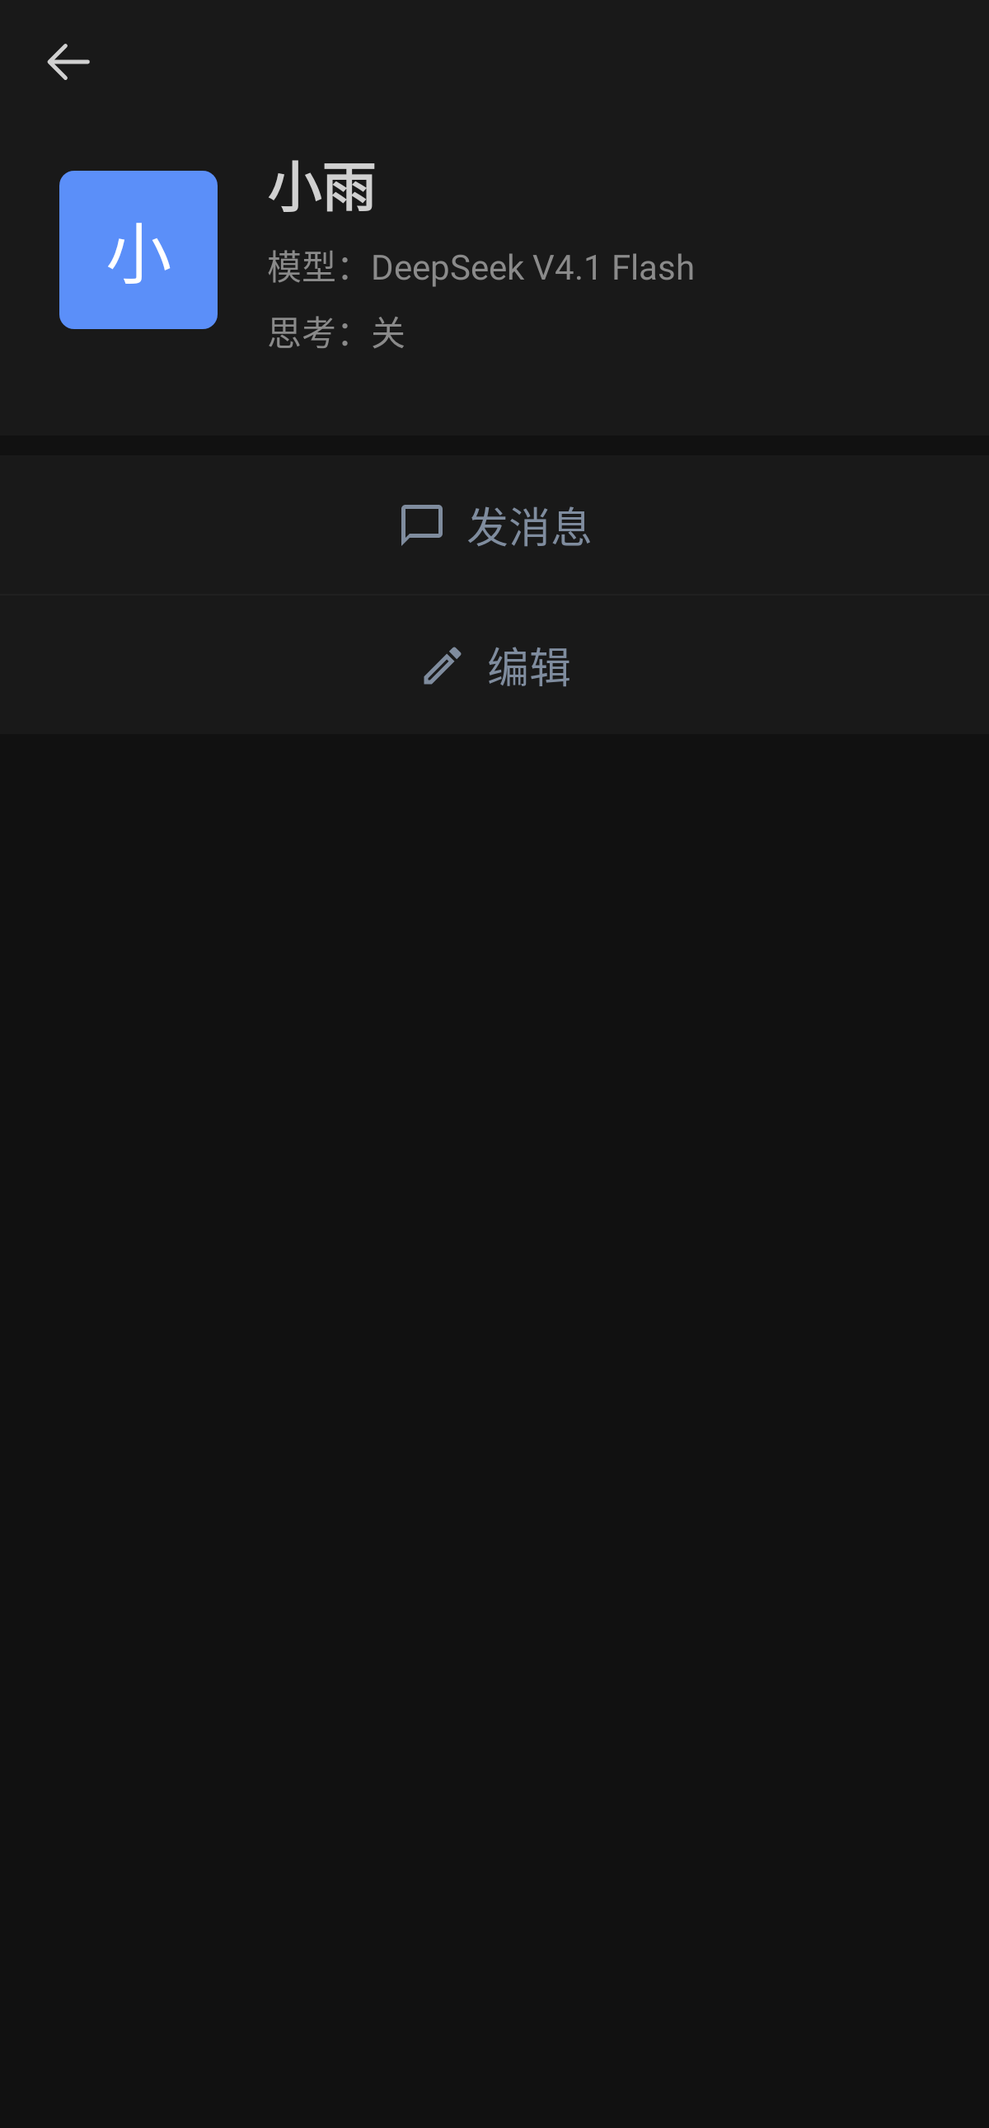
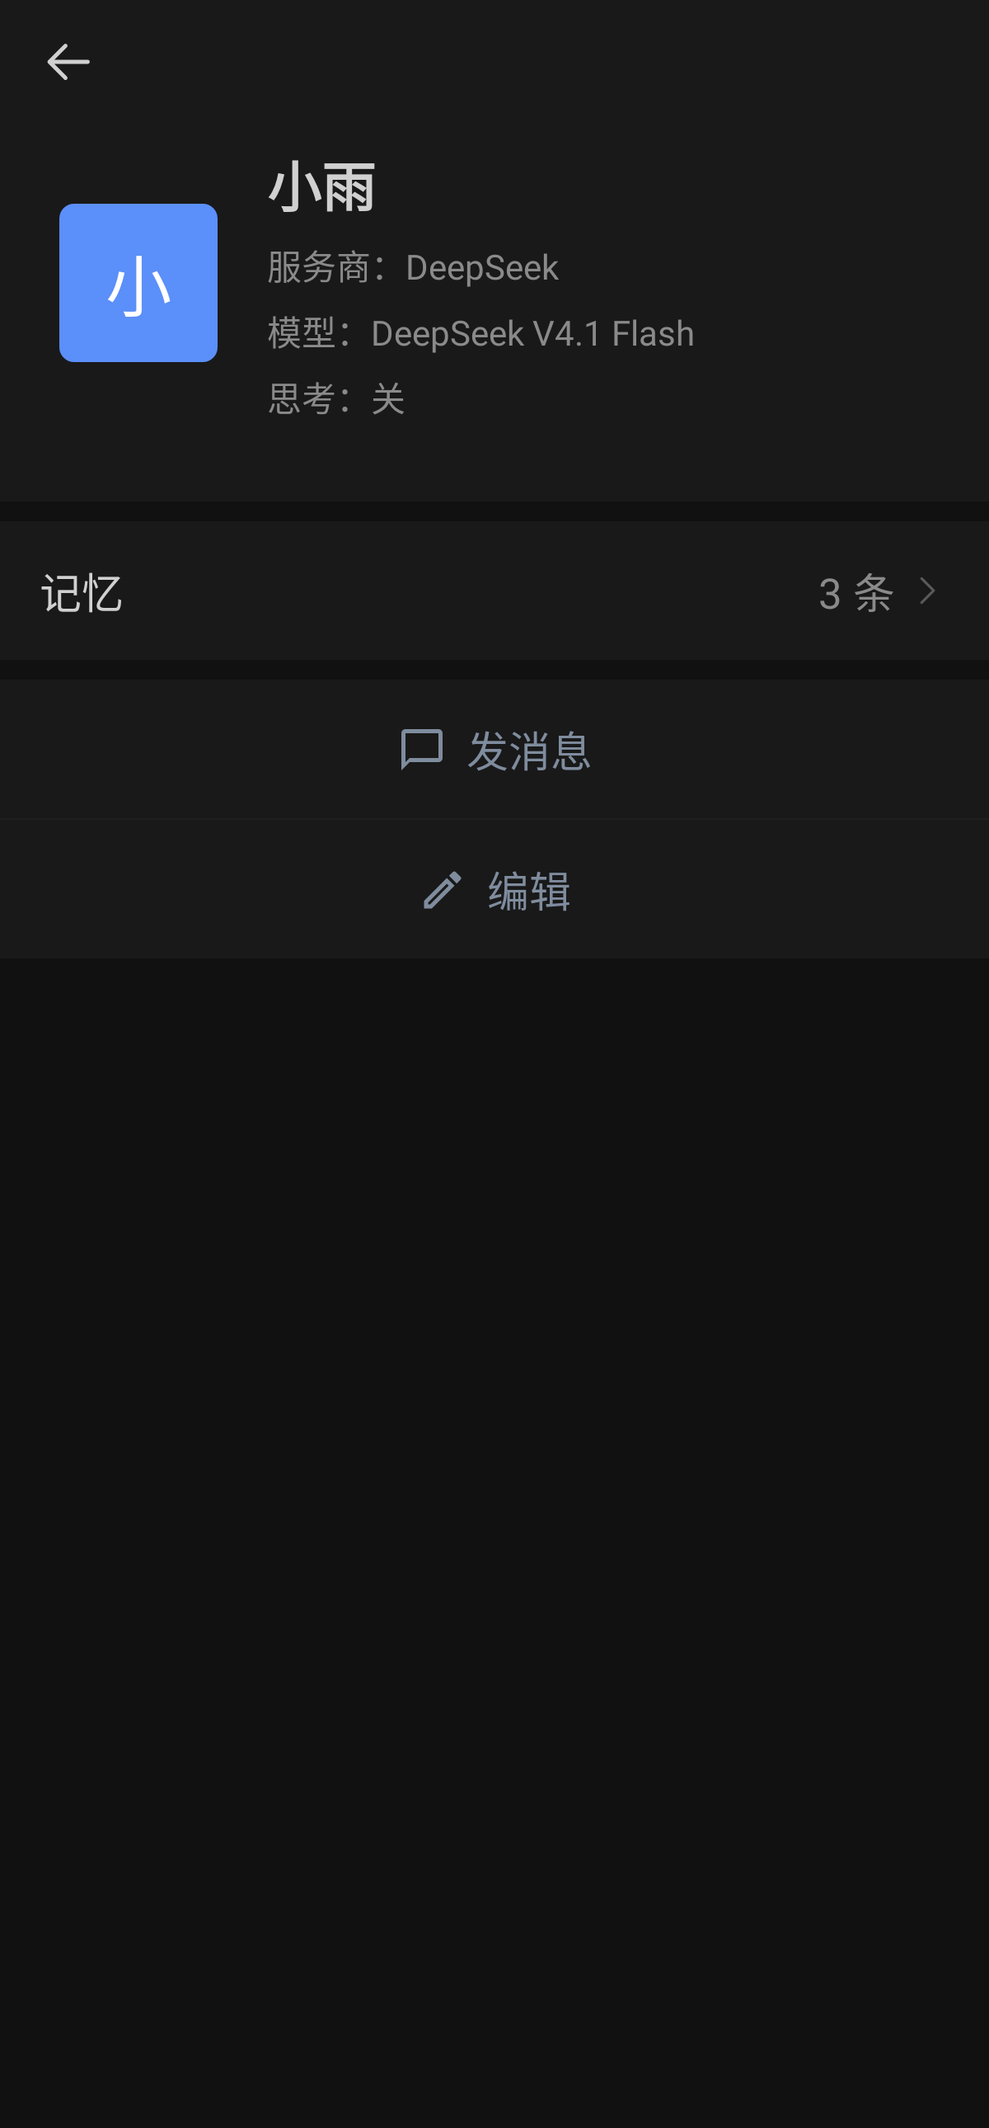
chore: 版本号改为 0.3.0，补充 0.3.0 更新说明、README、设计方案和新页面截图

diff --git a/智信 AIChat 设计方案.md b/智信 AIChat 设计方案.md
@@ -202,8 +202,9 @@ isomeria.aichat
 
 ### 联系人详情
 
-- 仿微信好友资料页：大头像、名称、当前模型
-- 按钮：「发消息」「编辑」；编辑页底部有「删除联系人」，需要二次确认，同时删除聊天记录
+- 仿微信好友资料页：大头像、名称、当前服务商和模型
+- 「记忆」（0.3.0）：查看、编辑、删除这个联系人的记忆，手动总结更早的聊天，清空全部记忆
+- 按钮：「发消息」「编辑」；编辑页底部有「删除联系人」，需要二次确认，同时删除聊天记录和记忆
 
 ### 联系人编辑
 
@@ -215,9 +216,12 @@ isomeria.aichat
 | 思考强度 | 关 / 高 / 最高 | 关 |
 | 温度 | 0.0–2.0 滑块，步长 0.1；开启思考时置灰，提示「思考模式下不生效」 | 1.3（DeepSeek 对通用对话的建议值，开发前核对） |
 | 系统提示词 | 多行文本，定义人设和说话方式 | 空 |
-| 上下文条数 | 每次请求带上最近几条消息 | 20 |
+| 服务商（0.3.0） | 先选服务商，再选模型 | 第一个配置了 Key 的服务商 |
+| 上下文上限（0.3.0） | 系统提示词、记忆和聊天记录合计的 token 上限，代替原来的上下文条数 | 4000 |
 
-另有一个开关「分条显示」，默认开，含义见聊天页。
+另有两个开关：「分条显示」，默认开，含义见聊天页；「自动记忆」（0.3.0），默认开，含义见「5. 模型接入」的长期记忆。
+
+模型不支持思考时，思考强度置灰并固定为关。
 
 新建联系人时，系统提示词预填下面的伴侣模板，用户在花括号处补充人设即可；{名称} 自动替换为联系人名称。
 
@@ -237,14 +241,14 @@ isomeria.aichat
 
 | 分组 | 内容 |
 | --- | --- |
-| 模型服务 | 大语言模型：服务商、API Key、Base URL、默认模型、「测试连接」；语音合成、语音识别：显示「即将支持」 |
+| 模型服务 | 大语言模型：服务商列表，每个服务商有名称、API Key、Base URL、默认模型、模型列表、「测试连接」；用量统计（0.3.0）；语音合成、语音识别：显示「即将支持」 |
 | 通用 | 深色模式（跟随系统 / 浅色 / 深色）、字体大小、新消息通知（开关、是否显示内容预览） |
 | 数据（0.2.0） | 导出数据、恢复数据、清空所有聊天记录 |
 | 关于 | 版本号、检查更新（0.2.0）、开源许可、GitHub 仓库 |
 
 ## 5. 模型接入
 
-所有模型都通过 LlmProvider 接口调用，0.1.0 只实现 DeepSeek；DeepSeek 兼容 OpenAI 的 Chat Completions 格式，Base URL 为 https://api.deepseek.com。下表的字段名和取值来自先前查到的资料，开发前逐项对照 DeepSeek 官方文档核对。
+所有模型都通过 LlmProvider 接口调用，有两个实现：DeepSeek（Base URL 为 https://api.deepseek.com）和通用的 OpenAI 兼容格式（0.3.0）。两者只有请求里的思考字段不同。下表的字段名和取值来自先前查到的资料，开发前逐项对照 DeepSeek 官方文档核对。
 
 | 智信里的设置 | 请求里的字段 | 说明 |
 | --- | --- | --- |
@@ -255,11 +259,15 @@ isomeria.aichat
 | 系统提示词 | messages 第一条，role 为 system | 为空时不发送 |
 | 流式输出 | stream: true | 后台仍用流式接收，避免思考时间长导致请求超时；界面不逐字显示 |
 
+**其他服务商的思考字段（0.3.0）**
+
+严格校验参数的服务商遇到多余字段会报 400，所以通用格式只发通用字段：思考关时不发思考字段、发温度；高和最高都发 reasoning\_effort 为 high（max 不是通用取值），不发温度。回复里的思考内容同时兼容 reasoning\_content 和 reasoning。手动添加 api.deepseek.com 时自动按 DeepSeek 格式。
+
 **图片输入**
 
 - 按 OpenAI 兼容格式放进消息内容：文字和图片作为同一条用户消息的不同部分，图片用 base64
 - 发送前压缩：长边不超过 2048 像素、JPEG 质量 85%，去掉 EXIF 中的定位信息
-- 每个模型记录「是否支持图片」：优先从接口读取，读不到时由用户在设置里标记
+- 每个模型记录「是否支持图片」「是否支持思考」：优先从接口读取（input\_modalities、effort，以及 OpenRouter 的 architecture.input\_modalities、supported\_parameters），读不到时为未知；用户在设置里的标记优先于接口
 - 上下文：只有最近 3 张图片带原图，更早的图片在请求里替换为文字「\[图片\]」，控制费用和请求大小
 - V4.1 Flash 的图片格式、大小上限和计费方式，开发前对照官方文档核对
 
@@ -276,27 +284,41 @@ isomeria.aichat
 
 **上下文**
 
-- 每次请求 = 系统提示词 + 最近 N 条消息（N 为联系人的「上下文条数」，默认 20）
+- 每次请求 = 系统提示词 + 记忆 + 预算内的聊天记录；预算是联系人的「上下文上限」，默认 4000 token，不含回复
+- 从最新的消息往前取，放不下就停；同一次回复拆出的多条要么都带，要么都不带；等待回复的消息一定带上；开头是助手消息时去掉，有些服务商要求第一条是用户消息
 - 历史回复里的思考内容不回传给模型
-- 系统提示词末尾自动附上当前日期、星期、时间和用户在「我」页设置的昵称，让回复符合时间和称呼（比如深夜会提醒早点睡）；0.3.0 改为按 token 预算截断，超出时丢弃最早的消息
+- 系统提示词末尾自动附上当前日期、星期、时间和用户在「我」页设置的昵称，让回复符合时间和称呼（比如深夜会提醒早点睡）
+- token 用估算，不引入分词库：DeepSeek 按官方比例（汉字 0.6、英文字符 0.3），其他服务商汉字按 1；每条消息加 4，带原图的图片每张按 1000 算
+
+**长期记忆（0.3.0）**
+
+- 触发：每次回复成功后在后台检查。未总结的消息超过可用预算（预算减去系统提示词和记忆）的 80% 时，把最早的一半总结成一条，单次最多 6000 token。这样消息被丢弃前已经进了记忆，默认预算下大约每 80 条总结一次
+- 模型：联系人当前的服务商和它的默认模型，关闭思考；没有默认模型时用联系人自己的模型。这样 Key 一定可用，聊天内容也不会发给联系人没在用的服务商
+- 形式：每次总结一条，不超过 200 字，标明日期范围，可以逐条编辑和删除
+- 总量：最多占预算的 1/4。超出时把最早的、没被改过的一半合并成一条；还是放不下时，这次请求先不带最早的，但不删除
+- 老聊天：升级后不自动回溯，起点是第一次检查时的上下文窗口开头。记忆页的「总结更早的聊天」手动往前总结一批
+- 失败：不打扰用户，下次回复后再试；用量计入统计
+- 删除：删除联系人时一起删除；清空或删除聊天时保留，确认框写明
+- 开关：联系人编辑页「自动记忆」，默认开；重新打开时不回溯关闭期间的聊天
 
 **错误处理**
 
 | 情况 | 提示 | 处理 |
 | --- | --- | --- |
-| 401 认证失败 | API Key 无效 | 提供「去设置」按钮 |
-| 402 余额不足 | DeepSeek 账户余额不足 | 不自动重试 |
+| 401、403 认证失败 | API Key 无效 | 提供「去设置」按钮，打开这个联系人用的服务商 |
+| 402 余额不足 | 服务商账户余额不足 | 不自动重试 |
+| 404 不存在 | 接口或模型不存在 | 消息标记失败，可检查 Base URL 和模型 |
 | 429 请求过快 | 请稍后再试 | 消息标记失败，可手动重试 |
 | 5xx、超时、断网 | 网络或服务异常 | 消息标记失败，可手动重试 |
 
 **安全**
 
-- API Key 只发送到用户配置的 Base URL
+- API Key 只发送到用户配置的 Base URL；Base URL 只支持 https，请求不跟随重定向
 - 日志里不出现 API Key 和消息正文
 
 **扩展接口**
 
-- LlmProvider：拉取模型列表、发起流式对话；以后加入其他兼容 OpenAI 格式的服务商，只需新增一个实现
+- LlmProvider：拉取模型列表、发起流式对话；兼容 OpenAI 格式的服务商不用写新实现，直接在设置里添加
 - TtsProvider、AsrProvider：形态相同，0.4.0 开始实现，设置页已预留入口
 
 ## 6. 数据设计
@@ -307,25 +329,29 @@ Room 存联系人、会话、消息和服务商配置，MMKV 存设置，API Key
 
 | 表 | 主要字段 | 说明 |
 | --- | --- | --- |
-| contact 联系人 | id、名称、头像路径、服务商 id、模型、思考强度（关/高/最高）、温度、系统提示词、上下文条数、创建与修改时间 | 一个联系人对应一个会话 |
-| conversation 会话 | 联系人 id、是否置顶、未读数、草稿、最后消息时间 | 聊天列表直接查这张表 |
+| contact 联系人 | id、名称、头像路径、服务商 id、模型、思考强度（关/高/最高）、温度、系统提示词、上下文上限、自动记忆、创建与修改时间 | 一个联系人对应一个会话 |
+| conversation 会话 | 联系人 id、是否置顶、未读数、草稿、最后消息时间、记忆进度 | 聊天列表直接查这张表 |
 | message 消息 | id、联系人 id、角色（用户/助手）、类型（文本/图片）、正文、图片路径与宽高、思考内容、状态、错误码、所用模型、token 用量、时间 | 状态：发送中、成功、失败 |
-| provider\_config 服务商 | id、类型（LLM/TTS/ASR）、服务商、Base URL、加密后的 API Key、默认模型、是否启用 | 0.1.0 只有一条 DeepSeek 记录 |
+| provider\_config 服务商 | id、类型（LLM/TTS/ASR）、请求格式、名称、Base URL、加密后的 API Key、默认模型、是否启用 | 可以有多条；还有联系人在用的不能删，至少保留一条 |
+| provider\_model 模型 | 服务商 id、模型 ID、显示名称、接口报告的图片和思考能力、用户标记、是否手动添加 | 刷新列表时保留标记和手动添加的模型 |
+| memory 记忆（0.3.0） | id、联系人 id、内容、覆盖的时间范围、是否改过、创建与修改时间 | 改过的不会被自动合并 |
+| usage\_daily 用量（0.3.0） | 日期、联系人 id、用途（聊天/记忆）、输入和输出 token、请求数 | 和消息表分开；删除联系人时并到「已删除的联系人」 |
 
 **MMKV 存的设置：** 深色模式、字体大小、自己的昵称和头像、自动检查更新开关、上次检查时间、忽略的版本。
 
-**数据库升级：** 导出 Room schema 文件，每次改表写迁移脚本，并用 schema 文件做迁移测试。
+**数据库升级：** 导出 Room schema 文件，每次改表写迁移脚本，并用 schema 文件做迁移测试。v1 → v2（0.3.0）：已有的服务商记录命名为 DeepSeek，id、Key 都不变；上下文条数 × 200 换算成预算，最低 1000；消息里已有的 token 数回填到用量统计。
 
 **导出（0.2.0）**
 
 1. 用系统文件选择器选保存位置，不需要存储权限
 2. 生成 zip：manifest.json（App 版本、数据格式版本、导出时间）、data.json（联系人、会话、消息、设置）、avatars/ 和 images/（头像和聊天图片）
-3. API Key 默认不导出；勾选「包含 API Key」时必须设置密码，Key 用 AES-GCM 加密，密钥由密码经 PBKDF2 派生
+3. API Key 默认不导出；勾选「包含 API Key」时必须设置密码，所有服务商的 Key 都用 AES-GCM 加密，密钥由密码经 PBKDF2 派生
+4. 数据格式 v2（0.3.0）：data.json 增加服务商名称和模型标记、记忆、用量；上下文条数换成预算
 
 **恢复（0.2.0）**
 
 1. 读取 manifest：数据格式版本比当前新则拒绝，并提示先升级 App；比当前旧则先迁移
-2. 选择方式：「合并」按 id 去重、保留本机已有数据；「覆盖」先清空再导入
+2. 选择方式：「合并」按 id 去重、保留本机已有数据；「覆盖」先清空再导入。请求格式和 Base URL 都相同的算同一个服务商：合并时保留本机配置，只补本机没有的 Key 和模型，其他的作为新服务商加入；覆盖时服务商换成备份里的，备份没带 Key 时只保留本机同一个服务商的 Key，这样别人做的备份文件不能把本机的 Key 引到别的地址
 3. 恢复前自动把当前数据备份到应用私有目录，恢复失败时回滚
 
 **系统备份：** 关闭 Android 自动备份（allowBackup=false）。Keystore 密钥不会随系统备份迁移，恢复到新手机后 Key 无法解密；换机统一走「导出 / 恢复」。
@@ -344,9 +370,13 @@ Room 存联系人、会话、消息和服务商配置，MMKV 存设置，API Key
 
 **下载与安装（0.3.0）**
 
-- App 内下载 APK，用 Release 里附带的 .sha256 文件校验
-- 校验通过后拉起系统安装界面；需要 REQUEST\_INSTALL\_PACKAGES 权限和 FileProvider，用户要在系统里允许「安装未知应用」
-- 下载失败时提供「在浏览器中打开 Release 页面」
+- App 内下载 APK，弹窗显示进度，可以取消，不做断点续传；切到后台时继续下载，进程被系统杀掉后要重新下载
+- 用 Release 里附带的 .sha256 文件校验；校验文件缺失或不一致时删掉 APK，不安装
+- 再核对包名、版本号和签名证书，避免下载到错误的包后才被系统安装器拒绝
+- 校验通过后拉起系统安装界面；需要 REQUEST\_INSTALL\_PACKAGES 权限和 FileProvider，用户要在系统里允许「安装未知应用」，从系统设置回来后自动继续
+- 下载或校验失败时提供「在浏览器中打开 Release 页面」
+- 下载的文件放在缓存目录，下次启动时清掉
+- 0.2.0 及更早的版本只能走浏览器，从 0.3.0 再往后才是应用内更新
 
 **国内网络**
 

diff --git a/README.md b/README.md
@@ -4,7 +4,7 @@
 
 - 包名 `isomeria.aichat`，需要 Android 14（API 34）及以上
 - 原生 Kotlin + Jetpack Compose，单 Activity，MVVM + StateFlow，Hilt 依赖注入
-- 大语言模型：DeepSeek（兼容 OpenAI Chat Completions 格式）
+- 大语言模型：DeepSeek 和任意兼容 OpenAI Chat Completions 格式的服务商
 - 设计方案见 [智信 AIChat 设计方案.md](智信%20AIChat%20设计方案.md)
 
 > 本项目与腾讯、微信没有任何关系。界面只参考布局与配色，不使用微信的图标、素材和名称。
@@ -32,6 +32,18 @@
 | 搜索 | 同时搜联系人名称和聊天内容；点结果跳到对应消息并高亮 |
 | 表情面板 | 系统 emoji（列表由 `tools/generate_emoji.py` 从 Unicode 官方数据生成）、分类标签、最近使用；面板和键盘同高 |
 | 草稿 | 退出聊天时保存，聊天列表显示红色「[草稿]」 |
+
+## 0.3.0 功能
+
+| 功能 | 说明 |
+| --- | --- |
+| 上下文预算 | 每个联系人可设 token 上限（默认 4000）；系统提示词、记忆和聊天记录合计不超过它，超出时丢弃最早的消息。估算不用分词库：DeepSeek 按官方比例（汉字 0.6、其他 0.3），其他服务商汉字按 1 |
+| 长期记忆 | 未总结的消息超过可用预算的 80% 时，把最早的一半总结成一条记忆，每次请求都带上；最多占预算的 1/4，超出时合并。可查看、编辑、删除；每个联系人可关闭。老聊天不自动回溯，可手动分批总结 |
+| 多服务商 | 添加任意兼容 OpenAI 格式的服务商（名称、Base URL、Key），拉取模型列表或手动添加模型；每个模型可标记是否支持图片和思考。Base URL 只支持 https |
+| 联系人选服务商 | 编辑页先选服务商，再选模型；Key 各自加密保存 |
+| 用量统计 | 设置里按天、按联系人查看 token 用量；记忆总结单独标出，清空聊天不影响统计 |
+| 应用内更新 | 下载 APK，用 `.sha256` 校验，核对包名、版本和签名后拉起系统安装；失败时可在浏览器中打开发布页 |
+| 备份格式 v2 | 服务商、记忆和用量也会导出和恢复；各服务商的 Key 默认不导出，勾选后用密码加密；v1 备份自动迁移 |
 
 ## 构建
 
@@ -92,17 +104,18 @@ GitHub Actions 从仓库 Secrets 读取签名，需要配置：
 isomeria.aichat
 ├─ ui/theme        微信风格主题：颜色、尺寸、字号
 ├─ ui/components   通用组件：顶栏、Tab 栏、头像、气泡、输入栏、列表行、对话框、菜单
-├─ feature/        main · chatlist · chat · chatinfo · contacts · contactedit · me · settings · backup
+├─ feature/        main · chatlist · chat · chatinfo · contacts · contactedit · memory · me · settings · usage · backup
 ├─ navigation      路由与页面切换
-├─ core            纯逻辑：时间显示、链接识别、分条拆分、上下文拼装、拼音分组
+├─ core            纯逻辑：时间显示、链接识别、分条拆分、上下文拼装与预算、记忆策略、用量汇总、拼音分组
 ├─ data/db         Room 表与 DAO
 ├─ data/repo       仓库层（页面只依赖这里）
-├─ data/llm        模型服务接口与 DeepSeek 实现
+├─ data/llm        模型服务接口：OpenAI 兼容格式，DeepSeek 和通用两种请求体
+├─ data/memory     长期记忆：自动总结、合并，后台任务
 ├─ data/reply      后台等待回复（WorkManager）与通知
 ├─ data/settings   MMKV 设置
 ├─ data/crypto     Android Keystore 加密
 ├─ data/backup     导出与恢复（格式、密码加密、迁移）
-└─ update          检查更新（GitHub Release）
+└─ update          检查更新与应用内更新（GitHub Release、下载、校验、安装）
 ```
 
 ## 许可

diff --git a/docs/release-notes/v0.3.0.md b/docs/release-notes/v0.3.0.md
@@ -1,0 +1,12 @@
+智信 0.3.0：长期记忆与多服务商。
+
+- 上下文预算：每个联系人可以设置 token 上限（默认 4000），系统提示词、记忆和聊天记录合计不超过它，超出时丢弃最早的消息。代替原来的「上下文条数」，已有联系人按「条数 × 200」自动换算
+- 长期记忆：较早的聊天自动总结成记忆，每次请求都带上。在联系人详情的「记忆」里可以查看、编辑、删除。总结会额外消耗少量 API 额度，可以在联系人编辑页关闭「自动记忆」
+- 老聊天不自动回溯：升级后从当前的聊天开始总结，更早的聊天可以在记忆页手动「总结更早的聊天」，每次一批
+- 多服务商：可以添加任意兼容 OpenAI 格式的服务商（名称、Base URL、Key），从接口拉取模型列表，接口没有列表时可以手动添加模型；每个模型可以标记是否支持图片、是否支持思考。Base URL 只支持 https
+- 联系人可选服务商：编辑页先选服务商，再选模型
+- 用量统计：在「设置 → 用量统计」里按天、按联系人查看 token 用量，记忆总结单独标出
+- 应用内更新：在 App 里下载安装包，用 SHA-256 校验并核对签名后拉起系统安装；下载或校验失败时可以在浏览器中打开发布页面
+- 导出和恢复：服务商、记忆和用量也会导出和恢复；所有服务商的 Key 默认不导出，勾选后用密码加密。旧版本导出的备份可以直接恢复
+
+需要 Android 14 及以上。从 0.2.0 或 0.1.0 直接覆盖安装即可，已有的 DeepSeek 设置和联系人会自动保留。这个版本还不能应用内升级到自己：从 0.2.0 升级要到发布页面下载，之后的版本才能在 App 内更新。
